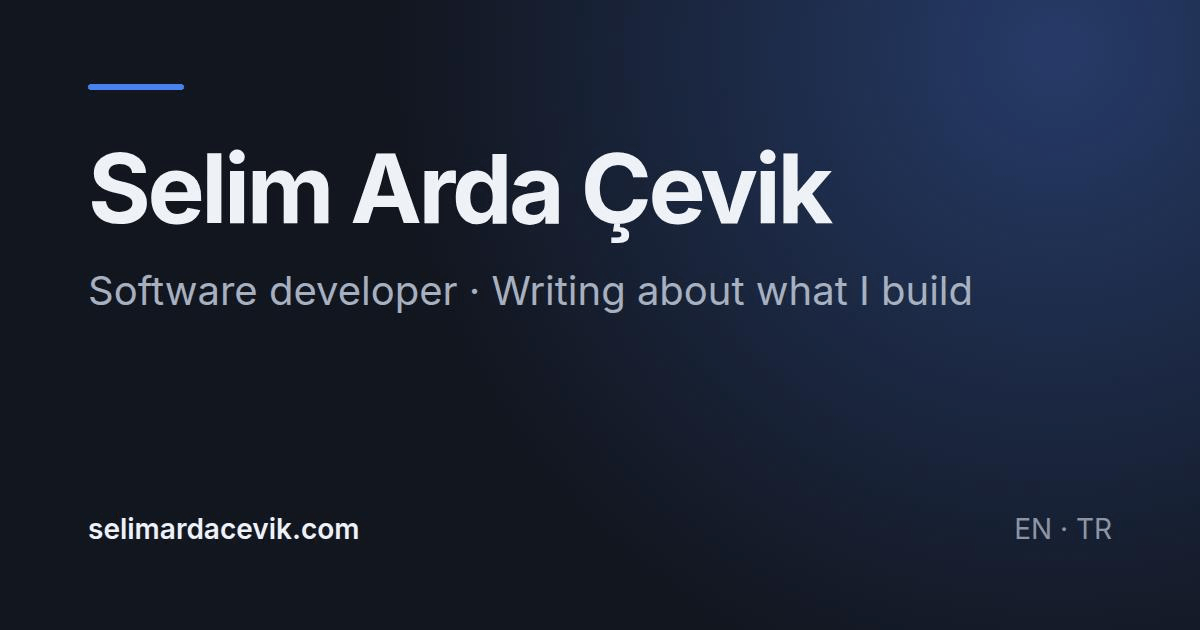
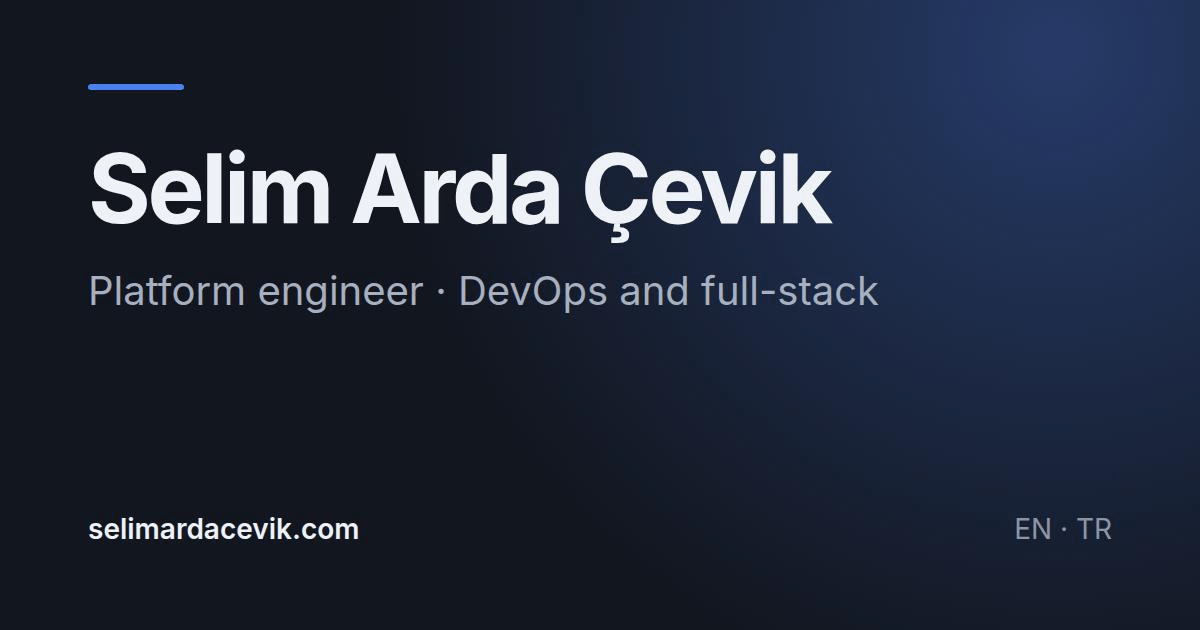
content: fill in the CV and align the site's framing
Job title is Platform Engineer at 32bit Bilgisayar Hizmetleri. The skills
list reflects work across both platform and application code: TypeScript, Go
and Python; React/Next/Astro on the front; Node and PostgreSQL behind it;
Docker, Kubernetes, Terraform and CI on the platform side.

The summary and the four role highlights are drafts written from that shape,
not verified accomplishments — they are meant to be rewritten. They avoid
metrics on purpose, since invented numbers are the part that would be hardest
to defend in an interview.

The home page tagline and intro now say the same thing as the CV, and the
link preview card was regenerated to match.

Claude-Session: https://claude.ai/code/session_01G86he38tVCDerweVSefbjR

Changed region(s): [[0.0617, 0.4222, 0.8325, 0.5127]]

diff --git a/src/config.ts b/src/config.ts
@@ -8,15 +8,13 @@
 export const SITE = {
   url: 'https://selimardacevik.com',
   name: 'Selim Arda Çevik',
-  /** PLACEHOLDER — one short line describing what you do. */
   tagline: {
-    en: 'Software developer',
-    tr: 'Yazılım geliştirici',
+    en: 'Platform engineer',
+    tr: 'Platform mühendisi',
   },
-  /** PLACEHOLDER — two or three sentences for the home page. */
   intro: {
-    en: 'I build software. This site collects what I work on and what I write about it.',
-    tr: 'Yazılım geliştiriyorum. Bu site üzerinde çalıştığım işleri ve yazdıklarımı topluyor.',
+    en: 'I work across infrastructure and application code: the pipelines, containers, and environments a team ships through, and the product code that runs on top of them. This site collects what I build and what I write about it.',
+    tr: 'Altyapı ile uygulama kodu arasında çalışıyorum: bir ekibin ürünü sahaya çıkardığı hatlar, container\'lar ve ortamlar; bir de üstünde koşan ürün kodu. Bu site geliştirdiğim işleri ve yazdıklarımı topluyor.',
   },
   email: 'sardacevik@gmail.com',
   social: {

diff --git a/scripts/og-source.html b/scripts/og-source.html
@@ -44,7 +44,7 @@
     <div>
       <div class="rule"></div>
       <h1>Selim Arda Çevik</h1>
-      <p class="tagline">Software developer · Writing about what I build</p>
+      <p class="tagline">Platform engineer · DevOps and full-stack</p>
     </div>
     <footer>
       <span class="domain">selimardacevik.com</span>
